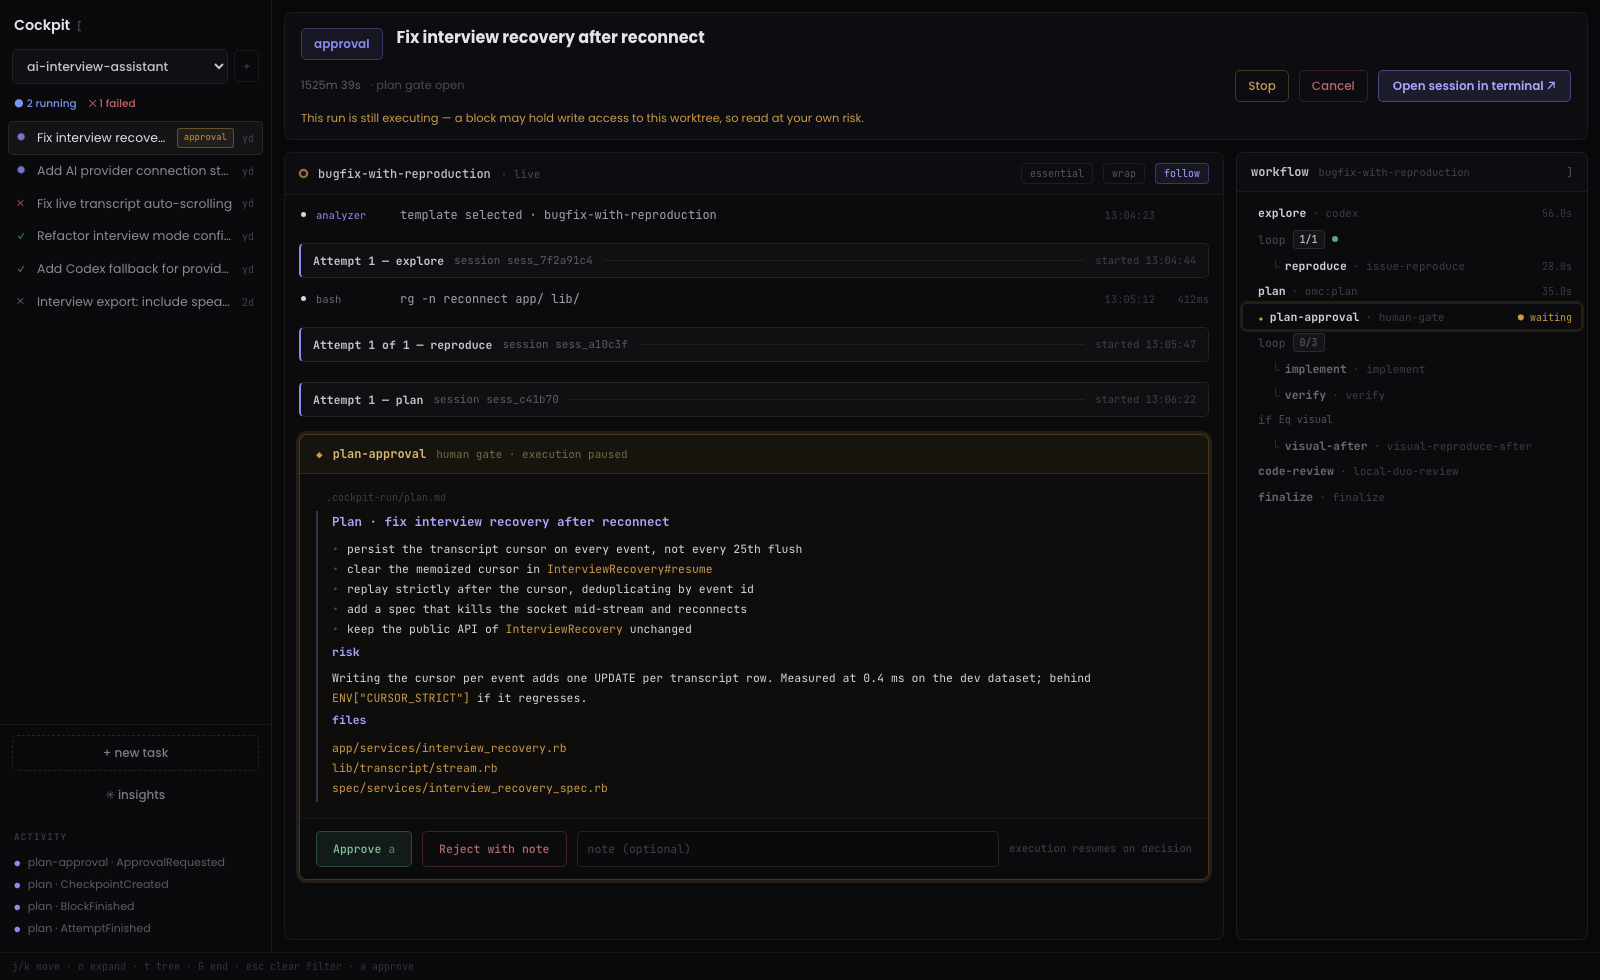
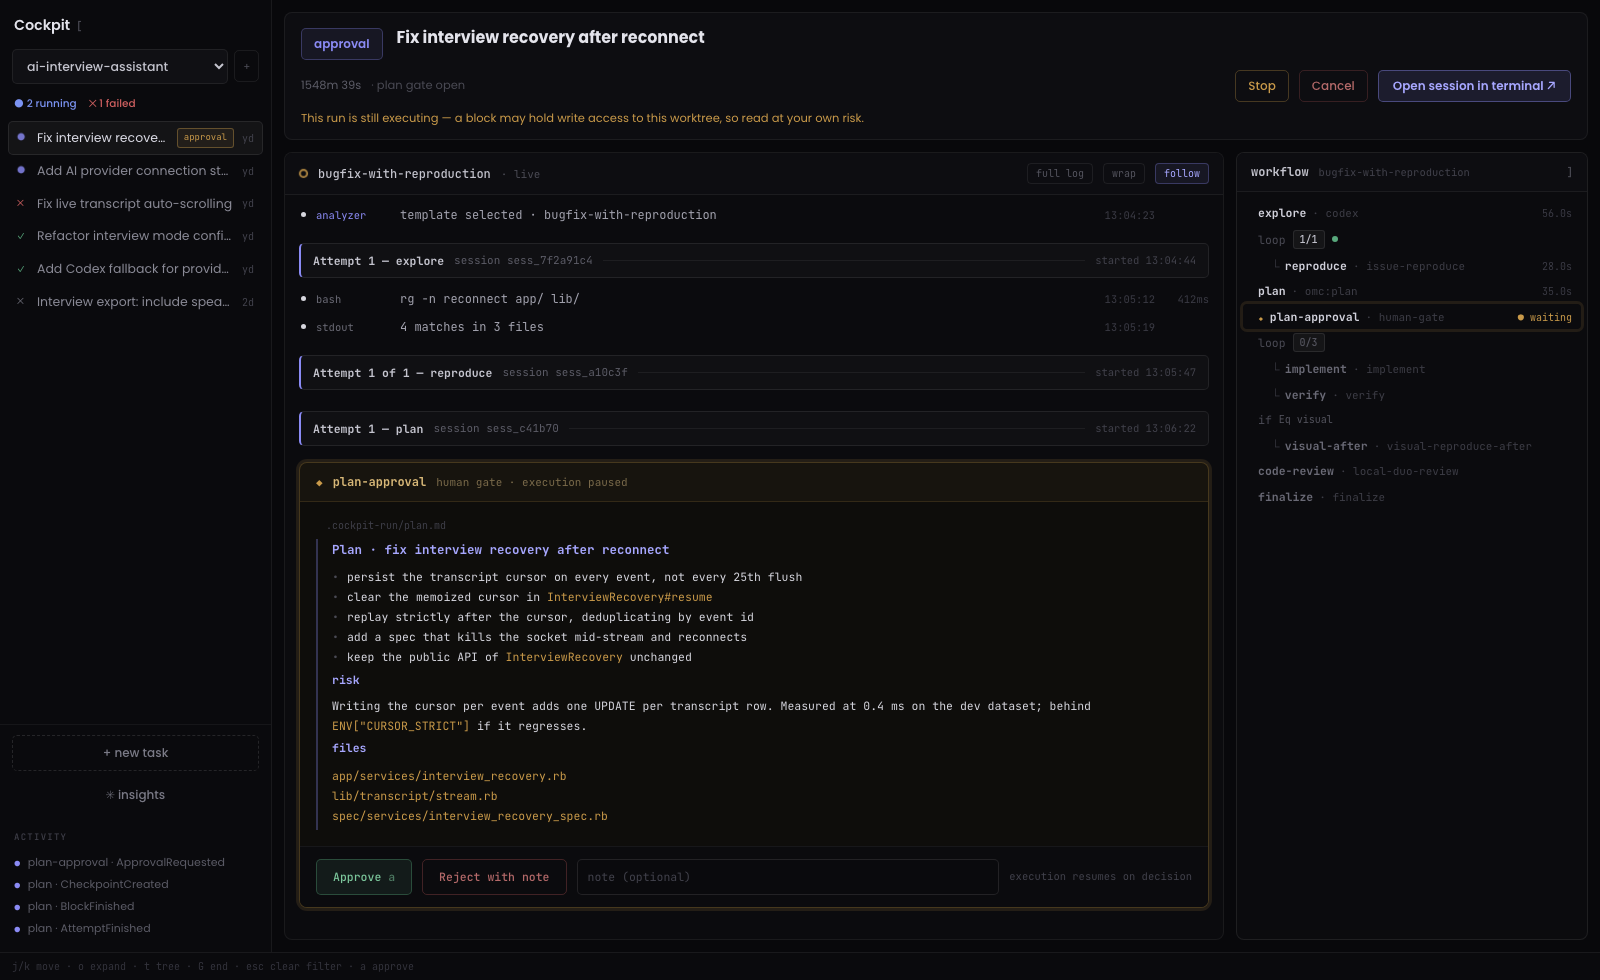
fix(ui): S7 review follow-ups — OutputChunk back in the essential stream
The journal carries one or two OutputChunks per block (the provider
firehose never reaches it), and that row is often a failed command's
only diagnostic — plan deviation recorded: OutputChunk leaves the
essential hidden set. AttemptInterrupted reads as prose instead of a
raw tag; the mode button keeps a fixed 'full log' label lit when
active, its tooltip stops promising rows full mode never shows, and
toggling clamps the stream focus. Redundant mode tests and the
duplicate essential screenshot dropped.

Claude-Session: https://claude.ai/code/session_015sWAqMZXvbihPyggTAEjRh

diff --git a/apps/ui/src/presentation.test.ts b/apps/ui/src/presentation.test.ts
@@ -24,6 +24,8 @@ const ev = (payload: EventPayload, blockId?: string, attemptId?: string): Journa
 })
 
 const rowsOf = (...events: JournalEvent[]) => buildRows(applyEvents(emptyRunState(), events))
+const fullRowsOf = (...events: JournalEvent[]) =>
+  buildRows(applyEvents(emptyRunState(), events), undefined, "full")
 
 const statuses: RunStatus[] = [
   "created",
@@ -140,6 +142,10 @@ describe("describe", () => {
     expect(view.tone).toBe("amber")
     expect(view.summary).toContain("fallback")
   })
+
+  it("reads an interrupted attempt as prose, not a raw tag", () => {
+    expect(describeEvent({ _tag: "AttemptInterrupted" }).summary).toBe("attempt interrupted")
+  })
 })
 
 describe("buildRows", () => {
@@ -217,17 +223,12 @@ describe("buildRows", () => {
   })
 
   it("hides run and block bookkeeping the other panels already show", () => {
-    // Full mode: this test is about the unconditional HIDDEN set, not essential-mode narration hiding.
-    const rows = buildRows(
-      applyEvents(emptyRunState(), [
-        ev({ _tag: "RunCreated", projectId: "p", prompt: "x" }),
-        ev({ _tag: "RunStarted" }),
-        ev({ _tag: "BlockStarted", defId: "codex", kind: "agent" }, "explore"),
-        ev({ _tag: "BlockFinished", status: "succeeded" }, "explore"),
-        ev({ _tag: "SessionStarted", sessionId: "sess_a" }, "explore", "at1"),
-      ]),
-      undefined,
-      "full",
+    const rows = fullRowsOf(
+      ev({ _tag: "RunCreated", projectId: "p", prompt: "x" }),
+      ev({ _tag: "RunStarted" }),
+      ev({ _tag: "BlockStarted", defId: "codex", kind: "agent" }, "explore"),
+      ev({ _tag: "BlockFinished", status: "succeeded" }, "explore"),
+      ev({ _tag: "SessionStarted", sessionId: "sess_a" }, "explore", "at1"),
     )
     expect(rows).toHaveLength(1)
     expect(rows[0]?.kind === "event" && rows[0].view.tag).toBe("session")
@@ -262,7 +263,6 @@ describe("buildRows", () => {
   })
 
   it("reuses row objects for events whose rendering did not change", () => {
-    // Full mode: row-cache identity is orthogonal to which mode's hidden set applies.
     const first = applyEvents(emptyRunState(), [
       ev({ _tag: "SessionStarted", sessionId: "sess_a" }, "explore", "at1"),
       ev({ _tag: "AttemptStarted", number: 1 }, "implement", "at2"),
@@ -306,10 +306,8 @@ describe("buildRows", () => {
 })
 
 describe("buildRows — stream mode", () => {
-  const narrationEvents = () => [
-    ev({ _tag: "OutputChunk", streamKind: "stdout", excerpt: "chunk 1" }),
-    ev({ _tag: "OutputChunk", streamKind: "stdout", excerpt: "chunk 2" }),
-    ev({ _tag: "OutputChunk", streamKind: "stdout", excerpt: "chunk 3" }),
+  const narrationEvents = [
+    ev({ _tag: "OutputChunk", streamKind: "stdout", excerpt: "chunk" }),
     ev({ _tag: "AgentActivity", activity: "explore" }),
     ev({ _tag: "PromptComposed", promptRef: "art_prompt" }),
     ev({ _tag: "SessionStarted", sessionId: "s1" }),
@@ -321,9 +319,10 @@ describe("buildRows — stream mode", () => {
     ev({ _tag: "TreeValidated", errors: [] }),
   ]
 
-  it("drops an OutputChunk storm and every other narration tag, including a clean TreeValidated", () => {
-    const state = applyEvents(emptyRunState(), narrationEvents())
-    expect(buildRows(state, undefined, "essential")).toHaveLength(0)
+  it("keeps OutputChunk but drops every other narration tag by default, including a clean TreeValidated", () => {
+    const rows = rowsOf(...narrationEvents)
+    expect(rows).toHaveLength(1)
+    expect(rows[0]?.event.payload._tag).toBe("OutputChunk")
   })
 
   it("keeps every tag the run's spine depends on", () => {
@@ -368,42 +367,17 @@ describe("buildRows — stream mode", () => {
       expect(tagsShown, `${e.payload._tag} missing from the essential stream`).toContain(e.payload._tag)
   })
 
-  it("shows every narration tag in full mode, one row per event — byte-identical to today's output", () => {
-    const events = narrationEvents()
-    const state = applyEvents(emptyRunState(), events)
-    const rows = buildRows(state, undefined, "full")
-    expect(rows.map((r) => r.event.payload._tag)).toEqual(events.map((e) => e.payload._tag))
-  })
-
-  it("still hides run/block bookkeeping in full mode — HIDDEN applies regardless of mode", () => {
-    const rows = buildRows(
-      applyEvents(emptyRunState(), [
-        ev({ _tag: "RunCreated", projectId: "p", prompt: "x" }),
-        ev({ _tag: "RunStarted" }),
-        ev({ _tag: "BlockStarted", defId: "codex", kind: "agent" }, "explore"),
-        ev({ _tag: "BlockFinished", status: "succeeded" }, "explore"),
-      ]),
-      undefined,
-      "full",
-    )
-    expect(rows).toHaveLength(0)
-  })
-
-  it("defaults to essential mode when none is given", () => {
-    expect(rowsOf(ev({ _tag: "OutputChunk", streamKind: "stdout", excerpt: "x" }))).toHaveLength(0)
+  it("shows every narration tag in full mode, one row per event", () => {
+    const rows = fullRowsOf(...narrationEvents)
+    expect(rows.map((r) => r.event.payload._tag)).toEqual(narrationEvents.map((e) => e.payload._tag))
   })
 })
 
 describe("filterRows", () => {
   it("keeps only the selected block's rows and restores everything on clear", () => {
-    // Full mode: filtering by block is orthogonal to which mode's hidden set applies.
-    const rows = buildRows(
-      applyEvents(emptyRunState(), [
-        ev({ _tag: "SessionStarted", sessionId: "a" }, "explore", "at1"),
-        ev({ _tag: "SessionStarted", sessionId: "b" }, "implement", "at2"),
-      ]),
-      undefined,
-      "full",
+    const rows = fullRowsOf(
+      ev({ _tag: "SessionStarted", sessionId: "a" }, "explore", "at1"),
+      ev({ _tag: "SessionStarted", sessionId: "b" }, "implement", "at2"),
     )
     expect(filterRows(rows, "implement")).toHaveLength(1)
     expect(filterRows(rows, null)).toHaveLength(2)

diff --git a/apps/ui/src/presentation.ts b/apps/ui/src/presentation.ts
@@ -217,6 +217,8 @@ export function describe(payload: EventPayload): EventView {
       }
     case "AttemptFinished":
       return { tag: "attempt", tone: payload.verdict === "success" ? "green" : "red", summary: `attempt ${payload.verdict}`, ...none }
+    case "AttemptInterrupted":
+      return { tag: "attempt", tone: "amber", summary: "attempt interrupted", ...none }
     case "BlockSkipped":
       return { tag: "block", tone: "slate", summary: `skipped · ${payload.reason}`, ...none }
     case "BlockSkipRequested":
@@ -251,10 +253,10 @@ export type StreamMode = "essential" | "full"
 
 /**
  * Essential mode additionally hides narration: provenance the tree and the attempt header already
- * carry, or raw output that has an artifact behind it and a block boundary pointing at it.
+ * carry. OutputChunk stays visible — the journal carries only a couple per block, not a firehose,
+ * and it's often the only diagnostic a failed command block has.
  */
 const ESSENTIAL_HIDDEN = new Set([
-  "OutputChunk",
   "AgentActivity",
   "PromptComposed",
   "SessionStarted",

diff --git a/apps/ui/e2e/smoke.spec.ts b/apps/ui/e2e/smoke.spec.ts
@@ -22,7 +22,6 @@ test("boots with three panels and a populated stream", async ({ page }) => {
   await expect(rows.filter({ hasText: "rg -n reconnect" }).first()).toBeVisible()
   await expect(page.getByTestId("attempt-header").first()).toBeVisible()
 
-  // Essential mode hides session narration by default; the toggle reveals it.
   await expect(rows.filter({ hasText: "session started" })).toHaveCount(0)
   await page.getByTestId("stream-mode").click()
   await expect(rows.filter({ hasText: "session started" }).first()).toBeVisible()
@@ -273,7 +272,7 @@ test("a question row takes an answer", async ({ page }) => {
 
 test("expanders render ANSI output and a unified diff", async ({ page }) => {
   await page.goto("/?mock=retry")
-  // Raw output and artifact rows are essential-mode narration; switch to full log to reach them.
+  // Artifact rows are essential-mode narration; switch to full log to reach the diff.
   await page.getByTestId("stream-mode").click()
 
   await page.locator('[data-testid=event-row][data-tag=stdout]').first().click()

diff --git a/apps/ui/e2e/screenshots.spec.ts b/apps/ui/e2e/screenshots.spec.ts
@@ -33,15 +33,11 @@ shot("approval", "approval", async (page) => {
 
 shot("finished", "finished", async (page) => {
   await expect(page.getByTestId("summary-card")).toBeVisible()
-})
-
-shot("stream-essential", "finished", async (page) => {
-  await expect(page.getByTestId("summary-card")).toBeVisible()
-  await expect(page.getByTestId("stream-mode")).toHaveText("essential")
+  await expect(page.getByTestId("stream-mode")).toHaveText("full log")
 })
 
 shot("stream-full", "finished", async (page) => {
   await expect(page.getByTestId("summary-card")).toBeVisible()
   await page.getByTestId("stream-mode").click()
-  await expect(page.getByTestId("stream-mode")).toHaveText("full log")
+  await expect(page.getByTestId("stream-mode")).toHaveClass(/border-white\/18/)
 })

diff --git a/apps/ui/src/Stream.tsx b/apps/ui/src/Stream.tsx
@@ -687,12 +687,12 @@ export function Stream({
           type="button"
           data-testid="stream-mode"
           onClick={() => onModeChange(mode === "essential" ? "full" : "essential")}
-          title="essential hides narration the tree and attempt header already carry; full shows every journal row"
+          title="essential hides narration the tree and attempt header already carry"
           className={`flex-none rounded-sm border px-2 py-0.5 font-mono text-[10px] ${
             mode === "full" ? "border-white/18 text-[#c4c4ce]" : "border-white/7 text-[#55555f]"
           }`}
         >
-          {mode === "full" ? "full log" : "essential"}
+          full log
         </button>
         <button
           type="button"

diff --git a/apps/ui/src/App.tsx b/apps/ui/src/App.tsx
@@ -508,7 +508,10 @@ export default function App() {
                   filter={selectedBlock}
                   onClearFilter={() => setSelectedBlock(null)}
                   mode={streamMode}
-                  onModeChange={setStreamMode}
+                  onModeChange={(m) => {
+                    setStreamMode(m)
+                    setFocus(-1)
+                  }}
                   focus={focus}
                   onFocus={setFocus}
                   expanded={expanded}
